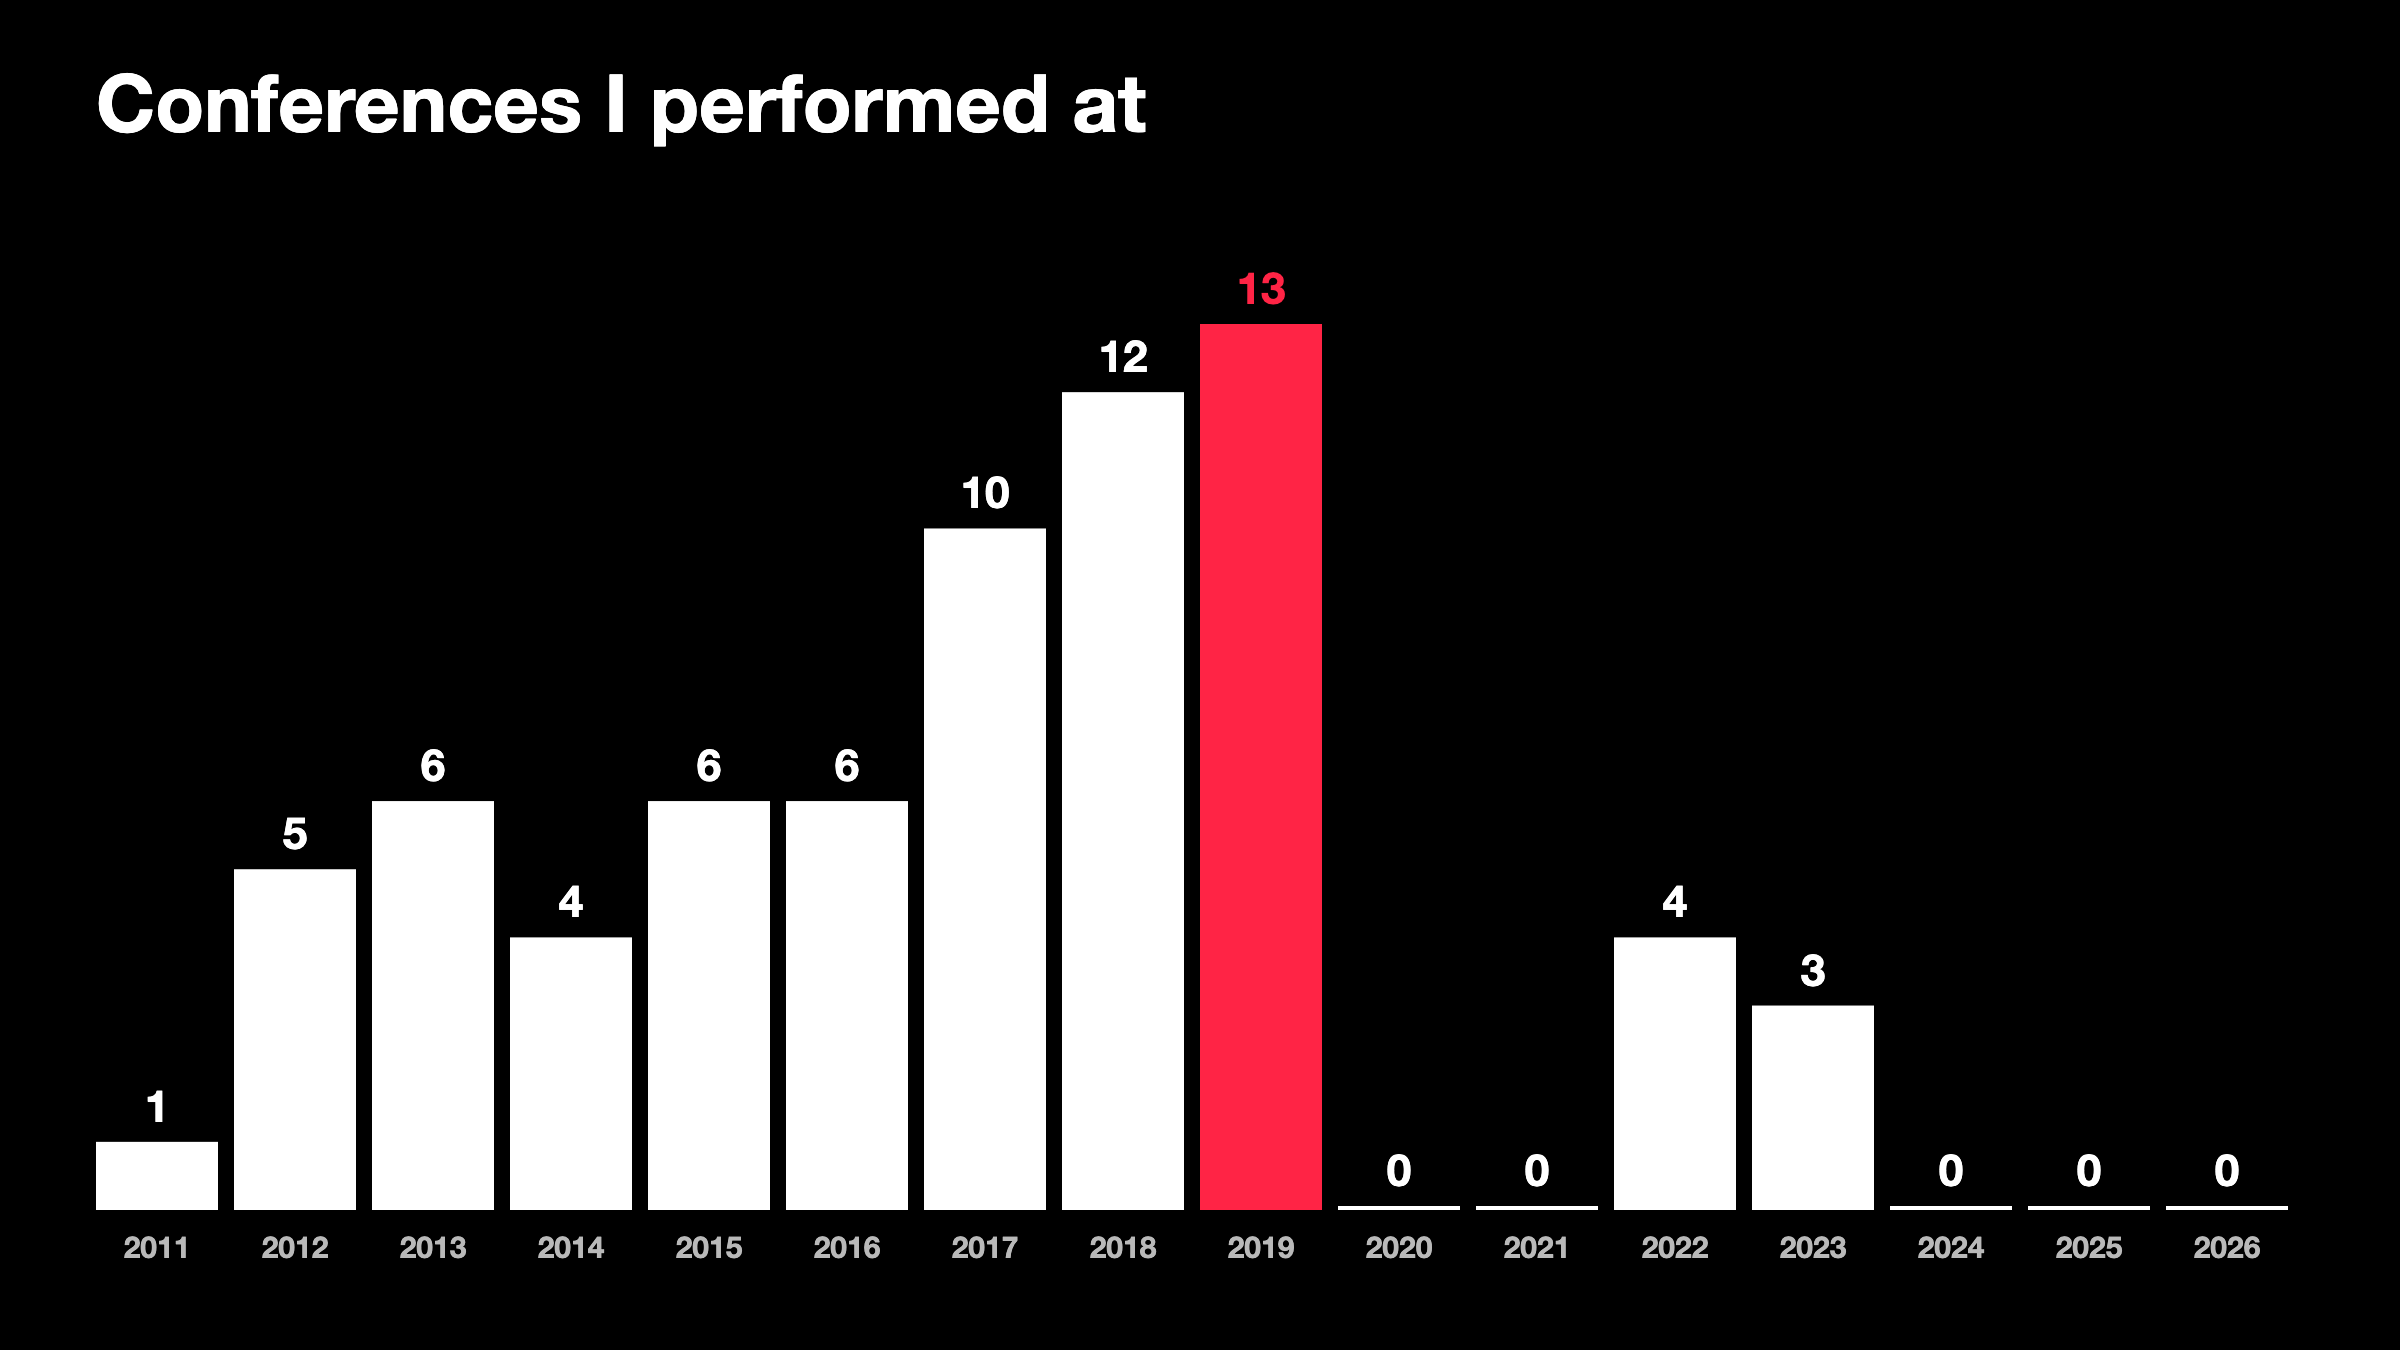
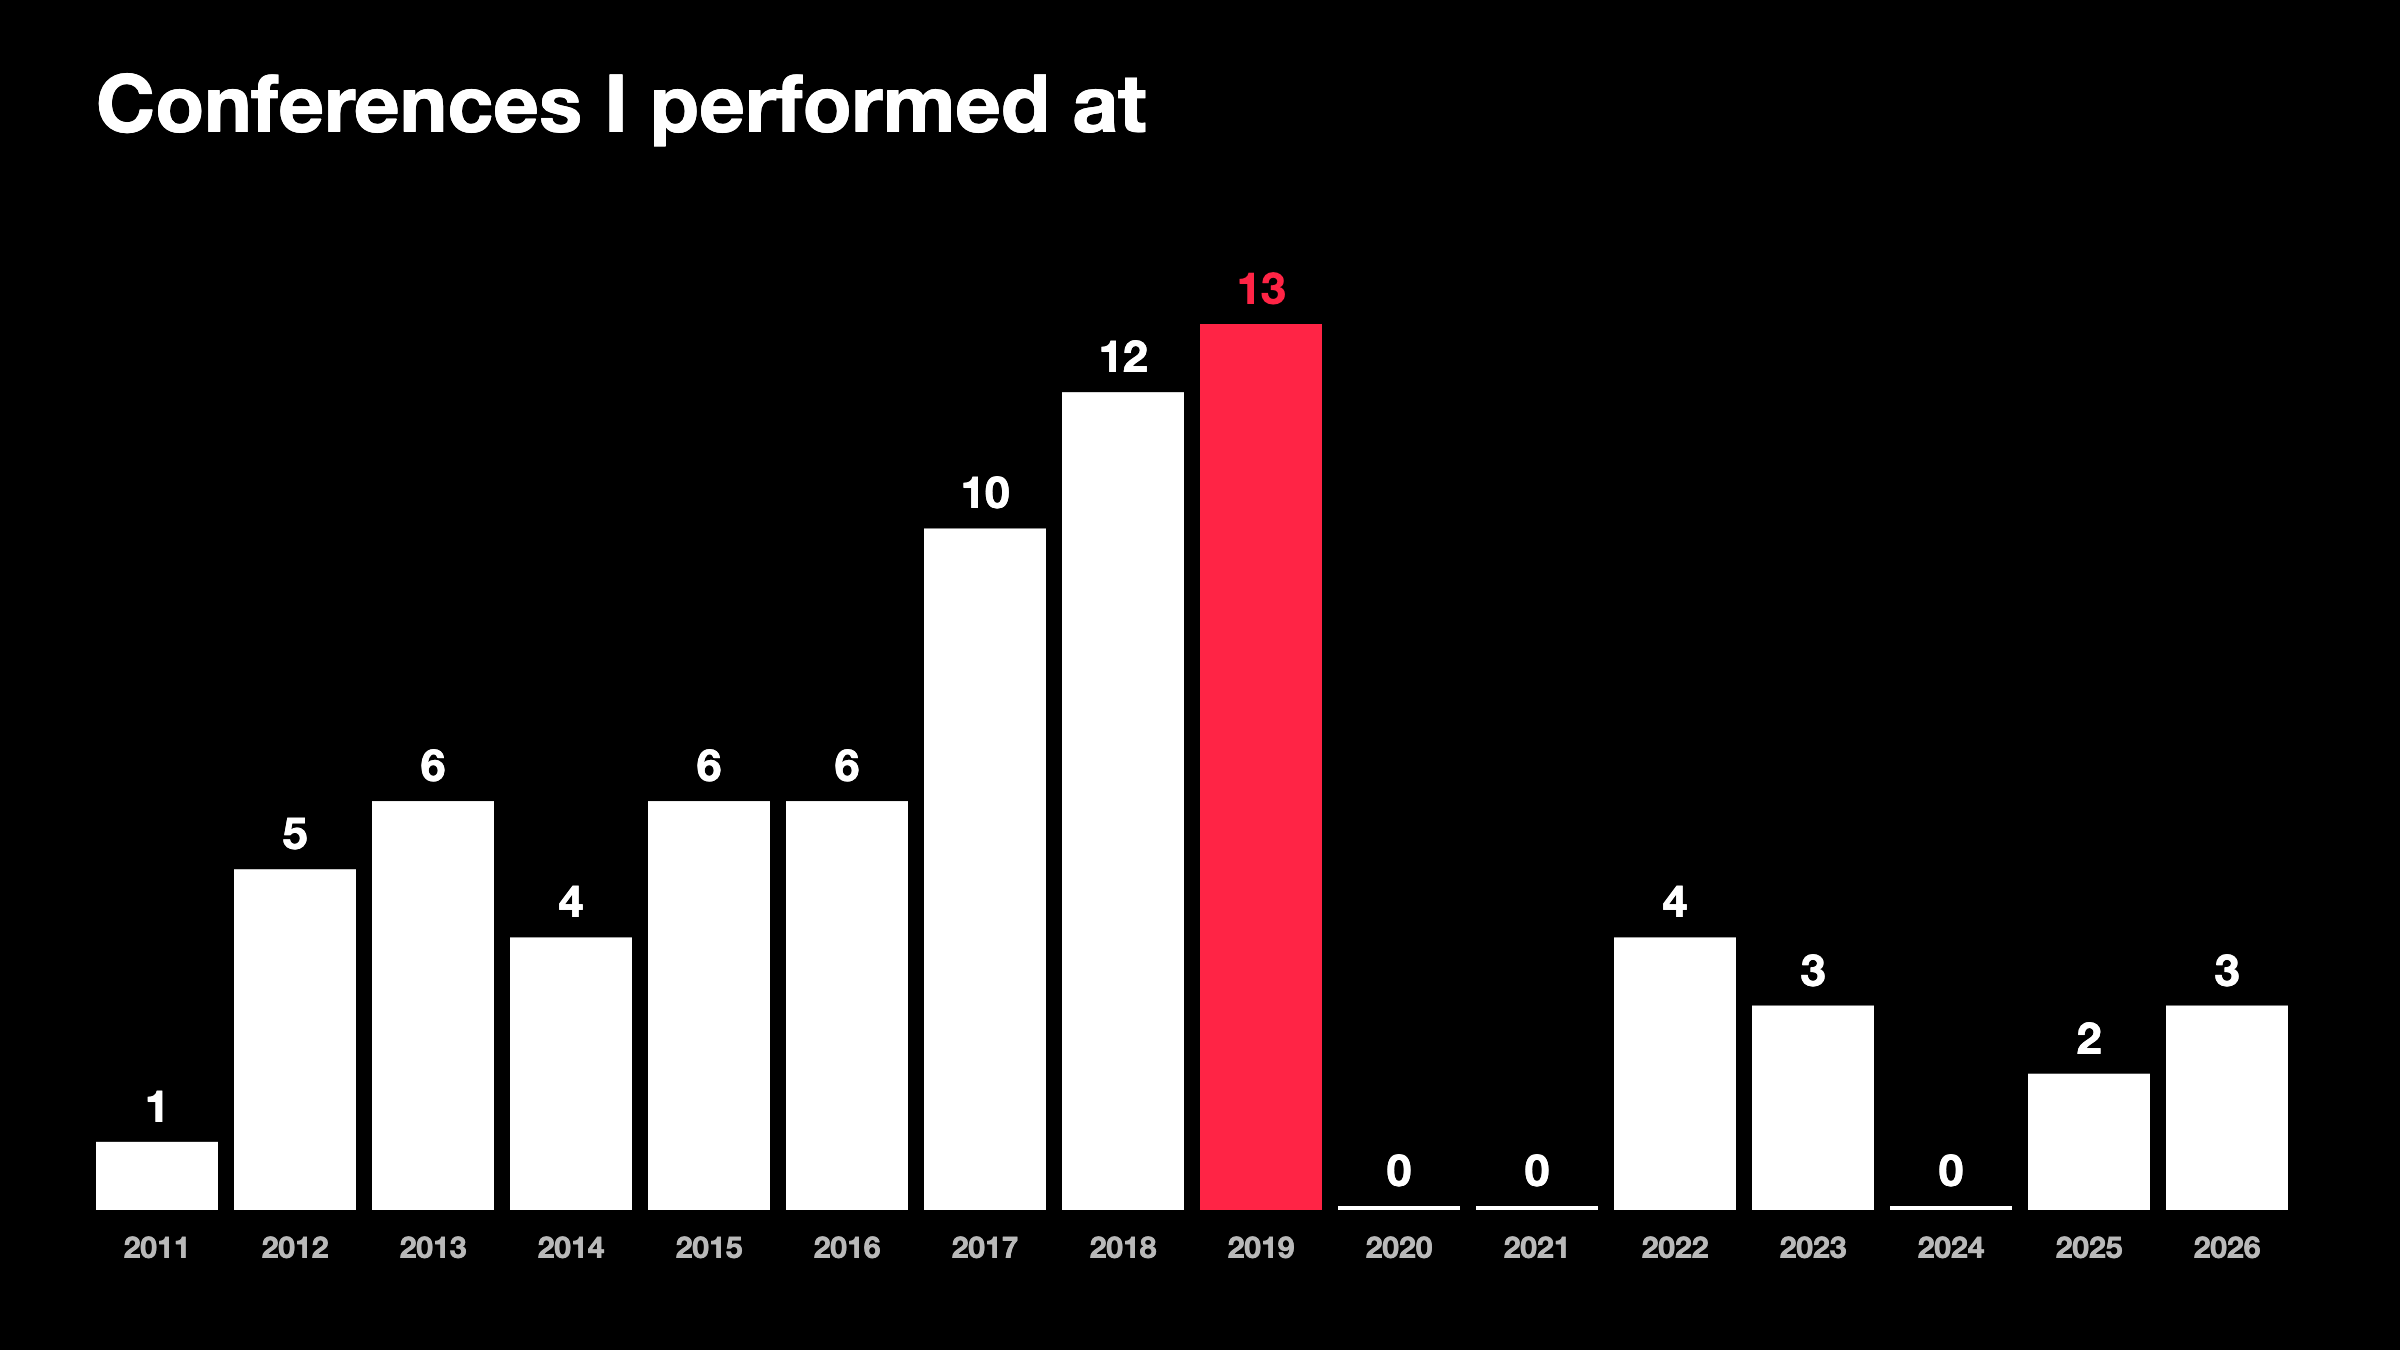
Conference Troubadour: add the 2025 and 2026 conferences
Kinference and EthDenver in 2025; FWB Fest, EthDenver and the NODE Gallery
Opening in 2026. The conferences-per-year image is redrawn from the list.

Changed region(s): [[0.8438, 0.7156, 0.9688, 0.9022]]

diff --git a/conference-troubadour.html b/conference-troubadour.html
@@ -75,6 +75,8 @@
       <h2 id="where-title">Where I’ve played</h2>
       <p class="troubadour-history">From 2013 to 2019, I primarily made my living on the conference circuit. I’d watch all the talks, typing furiously on my laptop taking notes. Then, during breaks, I’d turn all those notes into a catchy song. At the end of the day, I’d perform the “recap song”, with the audience singing the chorus; it was always a great way to end a conference.</p>
       <dl class="troubadour-years">
+        <dt>2026</dt><dd>FWB Fest · EthDenver · NODE Gallery Opening</dd>
+        <dt>2025</dt><dd>Kinference · EthDenver</dd>
         <dt>2023</dt><dd>Blockchain Policy Summit · Kinference · EthDenver</dd>
         <dt>2022</dt><dd>Autor · HNFTfest · Devcon · EthDenver</dd>
         <dt>2020–21</dt><dd>CORONAVIRUS!!!</dd>
